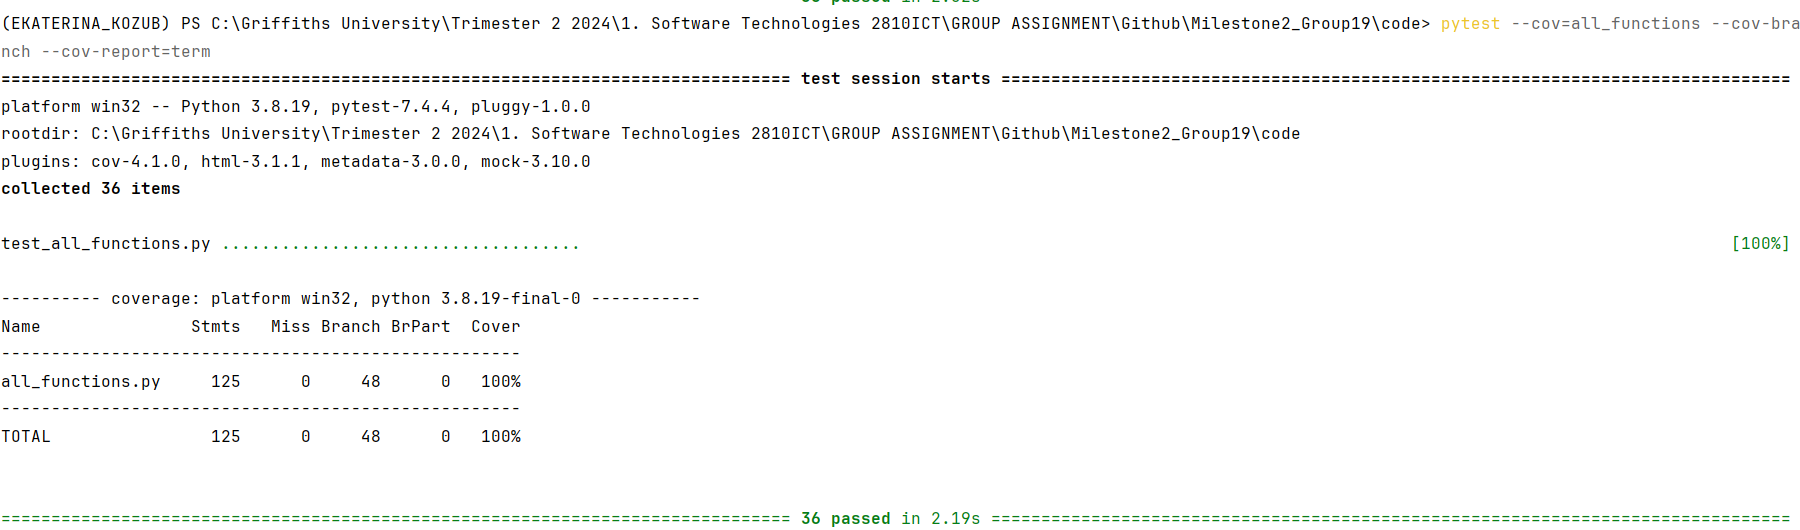
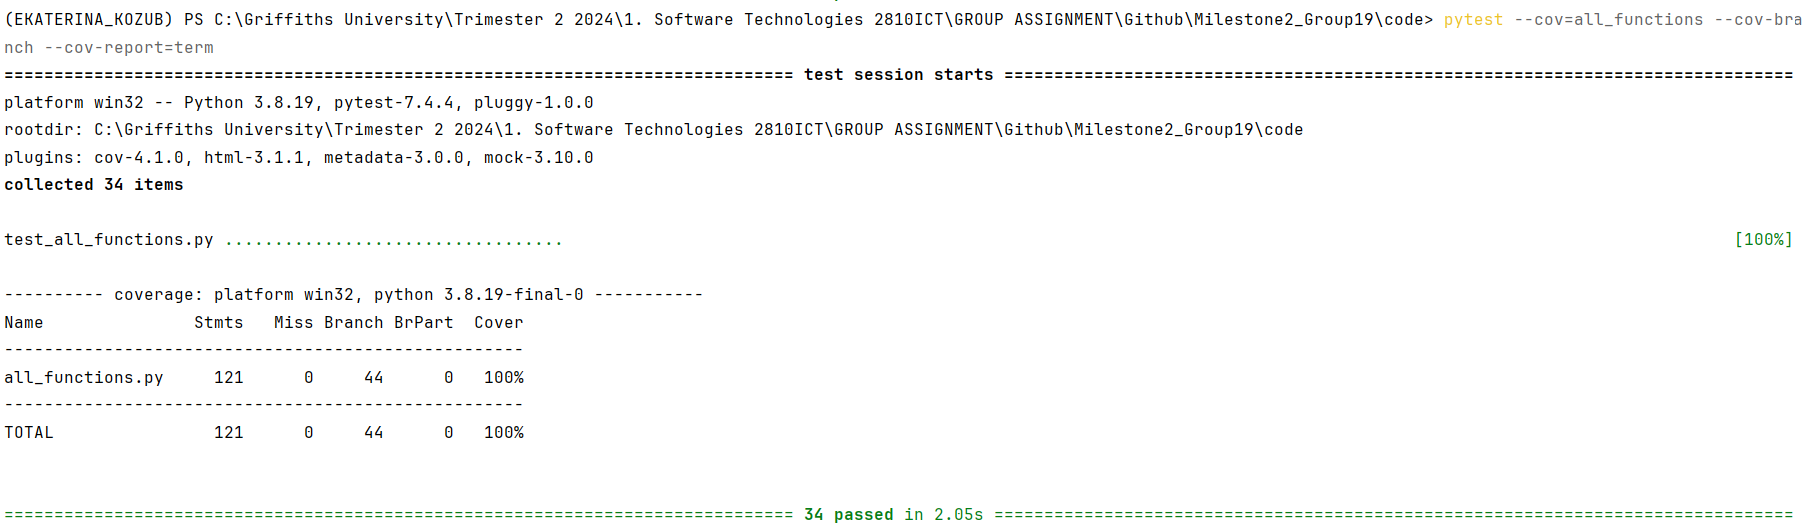
v_3.8

diff --git a/code/unit_test.html b/code/unit_test.html
@@ -429,10 +429,10 @@ function filterTable(elem) { // eslint-disable-line no-unused-vars
 }
 </script>
     <h1>unit_test.html</h1>
-    <p>Report generated on 26-Sep-2024 at 13:58:49 by <a href="https://pypi.python.org/pypi/pytest-html">pytest-html</a> v3.1.1</p>
+    <p>Report generated on 01-Oct-2024 at 10:09:46 by <a href="https://pypi.python.org/pypi/pytest-html">pytest-html</a> v3.1.1</p>
     <h2>Summary</h2>
-    <p>36 tests ran in 1.62 seconds. </p>
-    <p class="filter" hidden="true">(Un)check the boxes to filter the results.</p><input checked="true" class="filter" data-test-result="passed" hidden="true" name="filter_checkbox" onChange="filterTable(this)" type="checkbox"/><span class="passed">36 passed</span>, <input checked="true" class="filter" data-test-result="skipped" disabled="true" hidden="true" name="filter_checkbox" onChange="filterTable(this)" type="checkbox"/><span class="skipped">0 skipped</span>, <input checked="true" class="filter" data-test-result="failed" disabled="true" hidden="true" name="filter_checkbox" onChange="filterTable(this)" type="checkbox"/><span class="failed">0 failed</span>, <input checked="true" class="filter" data-test-result="error" disabled="true" hidden="true" name="filter_checkbox" onChange="filterTable(this)" type="checkbox"/><span class="error">0 errors</span>, <input checked="true" class="filter" data-test-result="xfailed" disabled="true" hidden="true" name="filter_checkbox" onChange="filterTable(this)" type="checkbox"/><span class="xfailed">0 expected failures</span>, <input checked="true" class="filter" data-test-result="xpassed" disabled="true" hidden="true" name="filter_checkbox" onChange="filterTable(this)" type="checkbox"/><span class="xpassed">0 unexpected passes</span>
+    <p>34 tests ran in 2.00 seconds. </p>
+    <p class="filter" hidden="true">(Un)check the boxes to filter the results.</p><input checked="true" class="filter" data-test-result="passed" hidden="true" name="filter_checkbox" onChange="filterTable(this)" type="checkbox"/><span class="passed">34 passed</span>, <input checked="true" class="filter" data-test-result="skipped" disabled="true" hidden="true" name="filter_checkbox" onChange="filterTable(this)" type="checkbox"/><span class="skipped">0 skipped</span>, <input checked="true" class="filter" data-test-result="failed" disabled="true" hidden="true" name="filter_checkbox" onChange="filterTable(this)" type="checkbox"/><span class="failed">0 failed</span>, <input checked="true" class="filter" data-test-result="error" disabled="true" hidden="true" name="filter_checkbox" onChange="filterTable(this)" type="checkbox"/><span class="error">0 errors</span>, <input checked="true" class="filter" data-test-result="xfailed" disabled="true" hidden="true" name="filter_checkbox" onChange="filterTable(this)" type="checkbox"/><span class="xfailed">0 expected failures</span>, <input checked="true" class="filter" data-test-result="xpassed" disabled="true" hidden="true" name="filter_checkbox" onChange="filterTable(this)" type="checkbox"/><span class="xpassed">0 unexpected passes</span>
     <h2>Results</h2>
     <table id="results-table">
       <thead id="results-table-head">
@@ -519,7 +519,7 @@ function filterTable(elem) { // eslint-disable-line no-unused-vars
         <tr>
           <td class="col-result">Passed</td>
           <td class="col-name">test_all_functions.py::test_create_pie_chart_valid</td>
-          <td class="col-duration">0.14</td>
+          <td class="col-duration">0.15</td>
           <td class="col-links"></td></tr>
         <tr>
           <td class="extra" colspan="4">
@@ -528,7 +528,7 @@ function filterTable(elem) { // eslint-disable-line no-unused-vars
         <tr>
           <td class="col-result">Passed</td>
           <td class="col-name">test_all_functions.py::test_create_pie_chart_invalid</td>
-          <td class="col-duration">0.01</td>
+          <td class="col-duration">0.02</td>
           <td class="col-links"></td></tr>
         <tr>
           <td class="extra" colspan="4">
@@ -537,7 +537,7 @@ function filterTable(elem) { // eslint-disable-line no-unused-vars
         <tr>
           <td class="col-result">Passed</td>
           <td class="col-name">test_all_functions.py::test_create_bar_graph_valid</td>
-          <td class="col-duration">0.06</td>
+          <td class="col-duration">0.07</td>
           <td class="col-links"></td></tr>
         <tr>
           <td class="extra" colspan="4">
@@ -546,7 +546,7 @@ function filterTable(elem) { // eslint-disable-line no-unused-vars
         <tr>
           <td class="col-result">Passed</td>
           <td class="col-name">test_all_functions.py::test_create_bar_graph_invalid</td>
-          <td class="col-duration">0.01</td>
+          <td class="col-duration">0.02</td>
           <td class="col-links"></td></tr>
         <tr>
           <td class="extra" colspan="4">
@@ -662,7 +662,7 @@ function filterTable(elem) { // eslint-disable-line no-unused-vars
       <tbody class="passed results-table-row">
         <tr>
           <td class="col-result">Passed</td>
-          <td class="col-name">test_all_functions.py::test_DataTable_GetNumberRows_valid</td>
+          <td class="col-name">test_all_functions.py::test_get_number_rows</td>
           <td class="col-duration">0.00</td>
           <td class="col-links"></td></tr>
         <tr>
@@ -671,7 +671,7 @@ function filterTable(elem) { // eslint-disable-line no-unused-vars
       <tbody class="passed results-table-row">
         <tr>
           <td class="col-result">Passed</td>
-          <td class="col-name">test_all_functions.py::test_DataTable_GetNumberRows_invalid</td>
+          <td class="col-name">test_all_functions.py::test_get_number_cols</td>
           <td class="col-duration">0.00</td>
           <td class="col-links"></td></tr>
         <tr>
@@ -680,7 +680,7 @@ function filterTable(elem) { // eslint-disable-line no-unused-vars
       <tbody class="passed results-table-row">
         <tr>
           <td class="col-result">Passed</td>
-          <td class="col-name">test_all_functions.py::test_DataTable_GetNumberCols_valid</td>
+          <td class="col-name">test_all_functions.py::test_get_value_valid</td>
           <td class="col-duration">0.00</td>
           <td class="col-links"></td></tr>
         <tr>
@@ -689,7 +689,7 @@ function filterTable(elem) { // eslint-disable-line no-unused-vars
       <tbody class="passed results-table-row">
         <tr>
           <td class="col-result">Passed</td>
-          <td class="col-name">test_all_functions.py::test_DataTable_GetNumberCols_invalid</td>
+          <td class="col-name">test_all_functions.py::test_get_value_invalid</td>
           <td class="col-duration">0.00</td>
           <td class="col-links"></td></tr>
         <tr>
@@ -698,7 +698,7 @@ function filterTable(elem) { // eslint-disable-line no-unused-vars
       <tbody class="passed results-table-row">
         <tr>
           <td class="col-result">Passed</td>
-          <td class="col-name">test_all_functions.py::test_DataTable_GetValue_valid</td>
+          <td class="col-name">test_all_functions.py::test_set_value_valid</td>
           <td class="col-duration">0.00</td>
           <td class="col-links"></td></tr>
         <tr>
@@ -707,7 +707,7 @@ function filterTable(elem) { // eslint-disable-line no-unused-vars
       <tbody class="passed results-table-row">
         <tr>
           <td class="col-result">Passed</td>
-          <td class="col-name">test_all_functions.py::test_DataTable_GetValue_invalid</td>
+          <td class="col-name">test_all_functions.py::test_set_value_invalid</td>
           <td class="col-duration">0.00</td>
           <td class="col-links"></td></tr>
         <tr>
@@ -716,7 +716,7 @@ function filterTable(elem) { // eslint-disable-line no-unused-vars
       <tbody class="passed results-table-row">
         <tr>
           <td class="col-result">Passed</td>
-          <td class="col-name">test_all_functions.py::test_DataTable_SetValue_valid</td>
+          <td class="col-name">test_all_functions.py::test_get_col_label_value_valid</td>
           <td class="col-duration">0.00</td>
           <td class="col-links"></td></tr>
         <tr>
@@ -725,7 +725,7 @@ function filterTable(elem) { // eslint-disable-line no-unused-vars
       <tbody class="passed results-table-row">
         <tr>
           <td class="col-result">Passed</td>
-          <td class="col-name">test_all_functions.py::test_DataTable_SetValue_invalid</td>
+          <td class="col-name">test_all_functions.py::test_get_col_label_value_invalid</td>
           <td class="col-duration">0.00</td>
           <td class="col-links"></td></tr>
         <tr>
@@ -734,7 +734,7 @@ function filterTable(elem) { // eslint-disable-line no-unused-vars
       <tbody class="passed results-table-row">
         <tr>
           <td class="col-result">Passed</td>
-          <td class="col-name">test_all_functions.py::test_DataTable_GetColLabelValue_valid</td>
+          <td class="col-name">test_all_functions.py::test_get_attr_valid</td>
           <td class="col-duration">0.00</td>
           <td class="col-links"></td></tr>
         <tr>
@@ -743,25 +743,7 @@ function filterTable(elem) { // eslint-disable-line no-unused-vars
       <tbody class="passed results-table-row">
         <tr>
           <td class="col-result">Passed</td>
-          <td class="col-name">test_all_functions.py::test_DataTable_GetColLabelValue_invalid</td>
-          <td class="col-duration">0.00</td>
-          <td class="col-links"></td></tr>
-        <tr>
-          <td class="extra" colspan="4">
-            <div class="empty log">No log output captured.</div></td></tr></tbody>
-      <tbody class="passed results-table-row">
-        <tr>
-          <td class="col-result">Passed</td>
-          <td class="col-name">test_all_functions.py::test_DataTable_GetAttr_valid</td>
-          <td class="col-duration">0.00</td>
-          <td class="col-links"></td></tr>
-        <tr>
-          <td class="extra" colspan="4">
-            <div class="empty log">No log output captured.</div></td></tr></tbody>
-      <tbody class="passed results-table-row">
-        <tr>
-          <td class="col-result">Passed</td>
-          <td class="col-name">test_all_functions.py::test_DataTable_GetAttr_invalid</td>
+          <td class="col-name">test_all_functions.py::test_get_attr_invalid</td>
           <td class="col-duration">0.00</td>
           <td class="col-links"></td></tr>
         <tr>

diff --git a/documents/Coverage_Testing_Report.md b/documents/Coverage_Testing_Report.md
@@ -29,10 +29,10 @@ list all tested functions related to the five required features:
 | `remove_food_from_meal_plan(meal_plan, food_name, quantity)`         |
 | `DataTable.GetNumberRows()`                                          |
 | `DataTable.GetNumberCols()`                                          |
-| `DataTable.GetValue()`                                               |
-| `DataTable.SetValue()`                                               |
-| `DataTable.GetColLabelValue()`                                       |
-| `DataTable.GetAttr()`                                                |
+| `DataTable.GetValue(row, col)`                                       |
+| `DataTable.SetValue(row, col, value)`                                |
+| `DataTable.GetColLabelValue(col)`                                    |
+| `DataTable.GetAttr(row, col, prop)`                                  |
 
 ---
 
